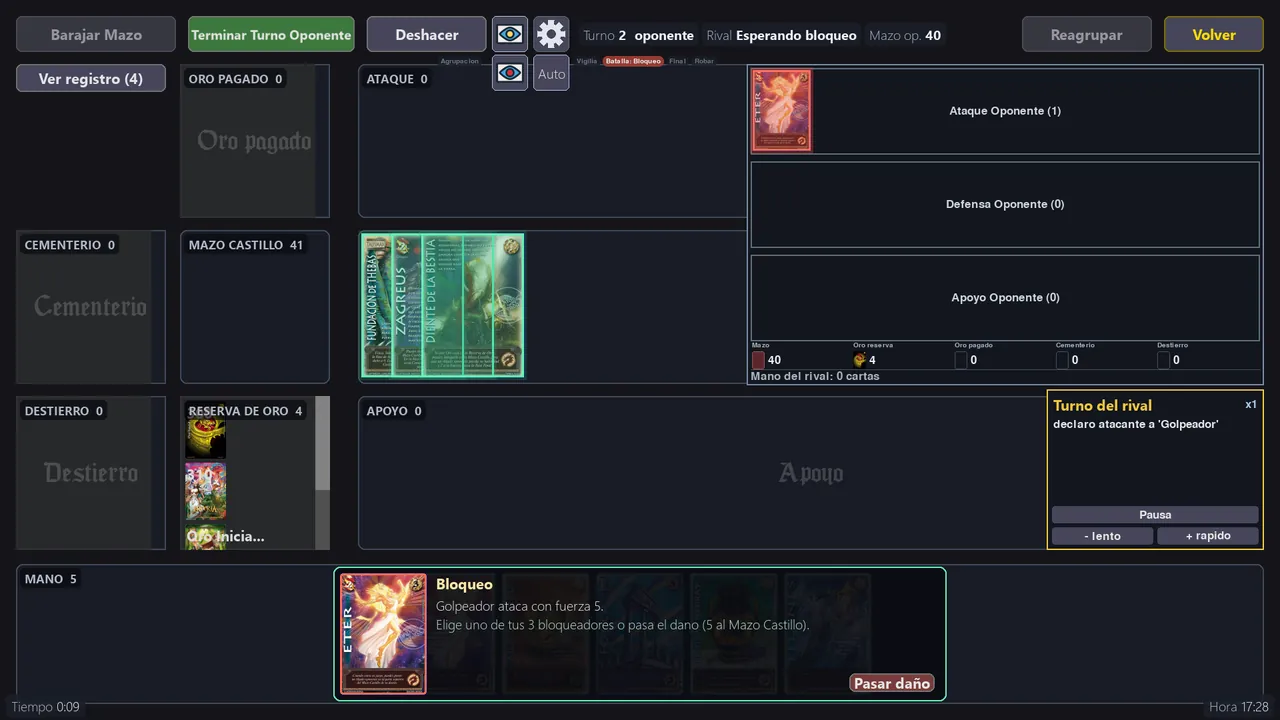
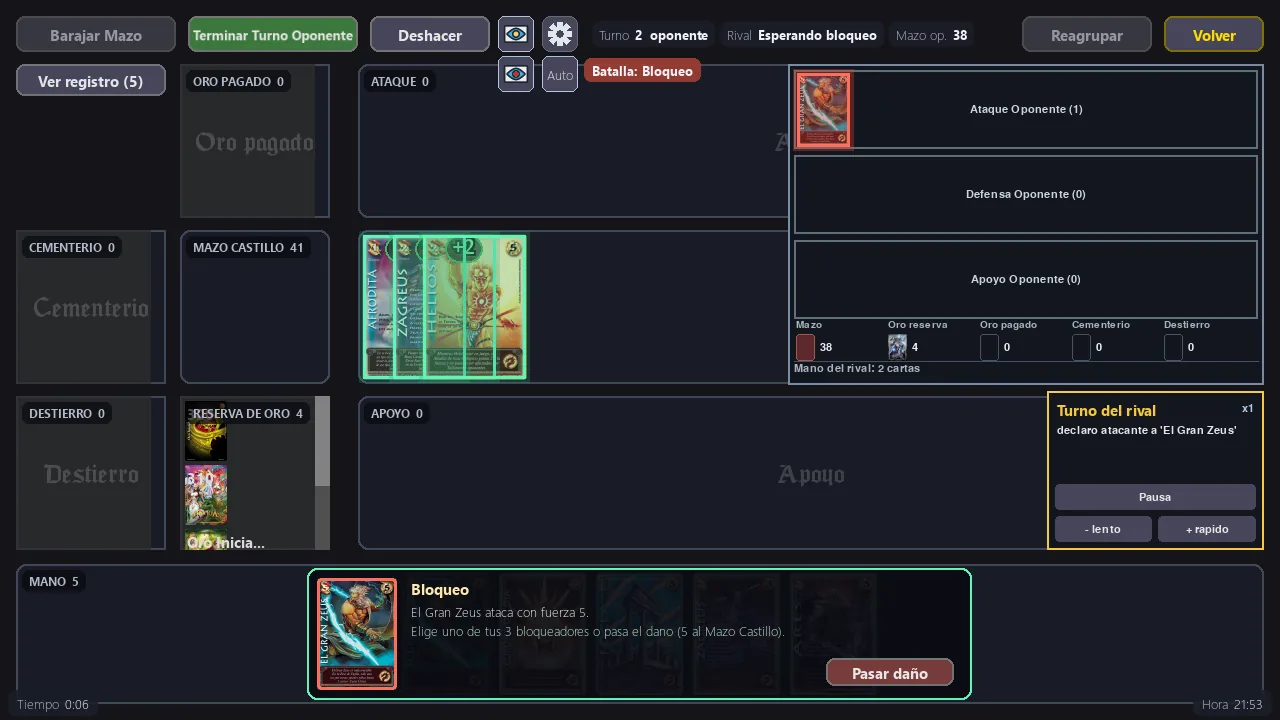
Web: la captura del bloqueo con cartas reales (antes salian un Talisman y un Oro como bloqueadores)

diff --git a/docs/index.html b/docs/index.html
@@ -77,7 +77,7 @@
 
     <figure class="captura">
       <img src="img/captura_bloqueo.webp" alt="Una partida en curso: el rival ataca y el juego pregunta con qué Aliado bloquear." width="1280" height="720" loading="lazy">
-      <figcaption>Una partida contra el bot: el rival ataca y eliges con qué Aliado bloquear.</figcaption>
+      <figcaption>Una partida contra el bot: El Gran Zeus ataca y eliges con qué Aliado bloquear.</figcaption>
     </figure>
 
     <h3>El objetivo</h3>
